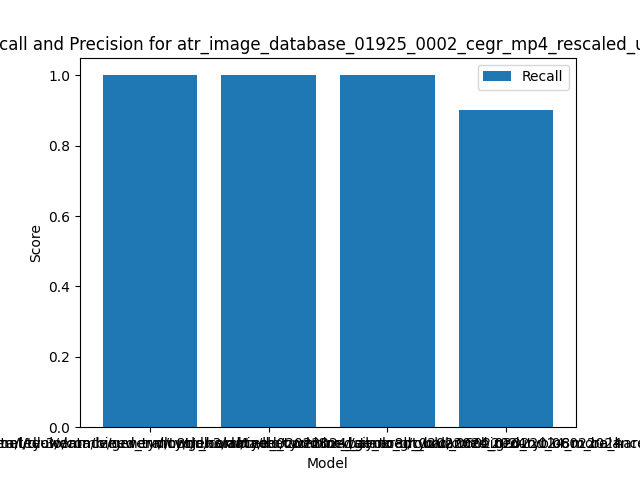
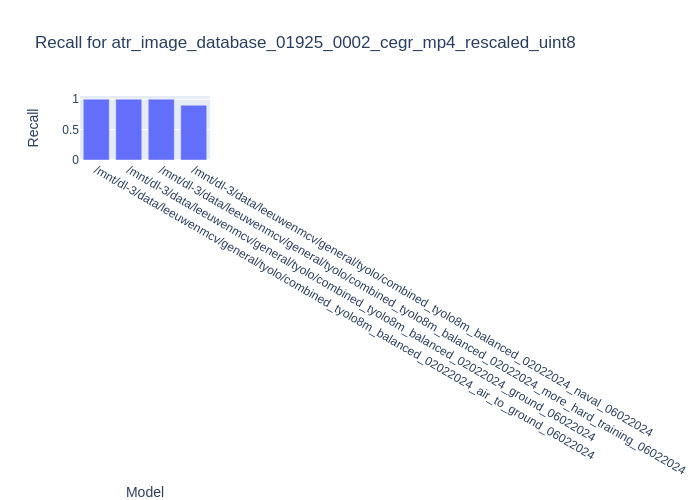
auto commit

diff --git a/yolo_loss_analysis/eval_comparison.py b/yolo_loss_analysis/eval_comparison.py
@@ -1,3 +1,4 @@
+# %%
 from pathlib import Path
 
 import pandas as pd
@@ -10,7 +11,8 @@ from click import getchar
 # train_dir = f"/mnt/dl-41/data/leeuwenmcv/mantis/mantis-tyolov8"
 # train_dir = f"/mnt/dl-41/data/leeuwenmcv/general/ratio/yolo"
 print("use latest data? \n")
-use_latest_data = getchar() == "y"
+# use_latest_data = getchar() == "y"
+use_latest_data = True  # @ getchar() == "y"
 if not use_latest_data:
     train_dir = prompt(
         [
@@ -52,21 +54,20 @@ print(latest_data_df.columns)
 import matplotlib.pyplot as plt
 
 # Group the data by sequencename and model
-grouped_data = latest_data_df.groupby(["name", "model"]).mean().reset_index()
 
-# Iterate over each sequencename
-for sequencename in grouped_data["name"].unique():
-    # Filter the data for the current sequencename
-    sequencename_data = grouped_data[grouped_data["name"] == sequencename]
+import plotly.express as px
 
-    # Create a bar plot for recall and precision
-    plt.figure()
-    plt.bar(sequencename_data["model"], sequencename_data["F1 Recall"], label="Recall")
-    # plt.bar(
-    #     sequencename_data["model"], sequencename_data["F1 Precision"], label="Precision"
-    # )
-    plt.xlabel("Model")
-    plt.ylabel("Score")
-    plt.title(f"Recall and Precision for {sequencename}")
-    plt.legend()
-    plt.savefig(f"{sequencename}_barplot.png")
+# sequencename_data = grouped_data[grouped_data["name"] == sequencename]
+
+# Create a bar plot for recall and precision
+fig = px.bar(
+    latest_data_df,
+    x="model",
+    y="mAP",
+    # labels={"model": "Model", "F1 mAP": "mAP"},
+    color="name",
+    # title=f"Recall for {sequencename}",
+)
+fig.show()
+
+# %%
